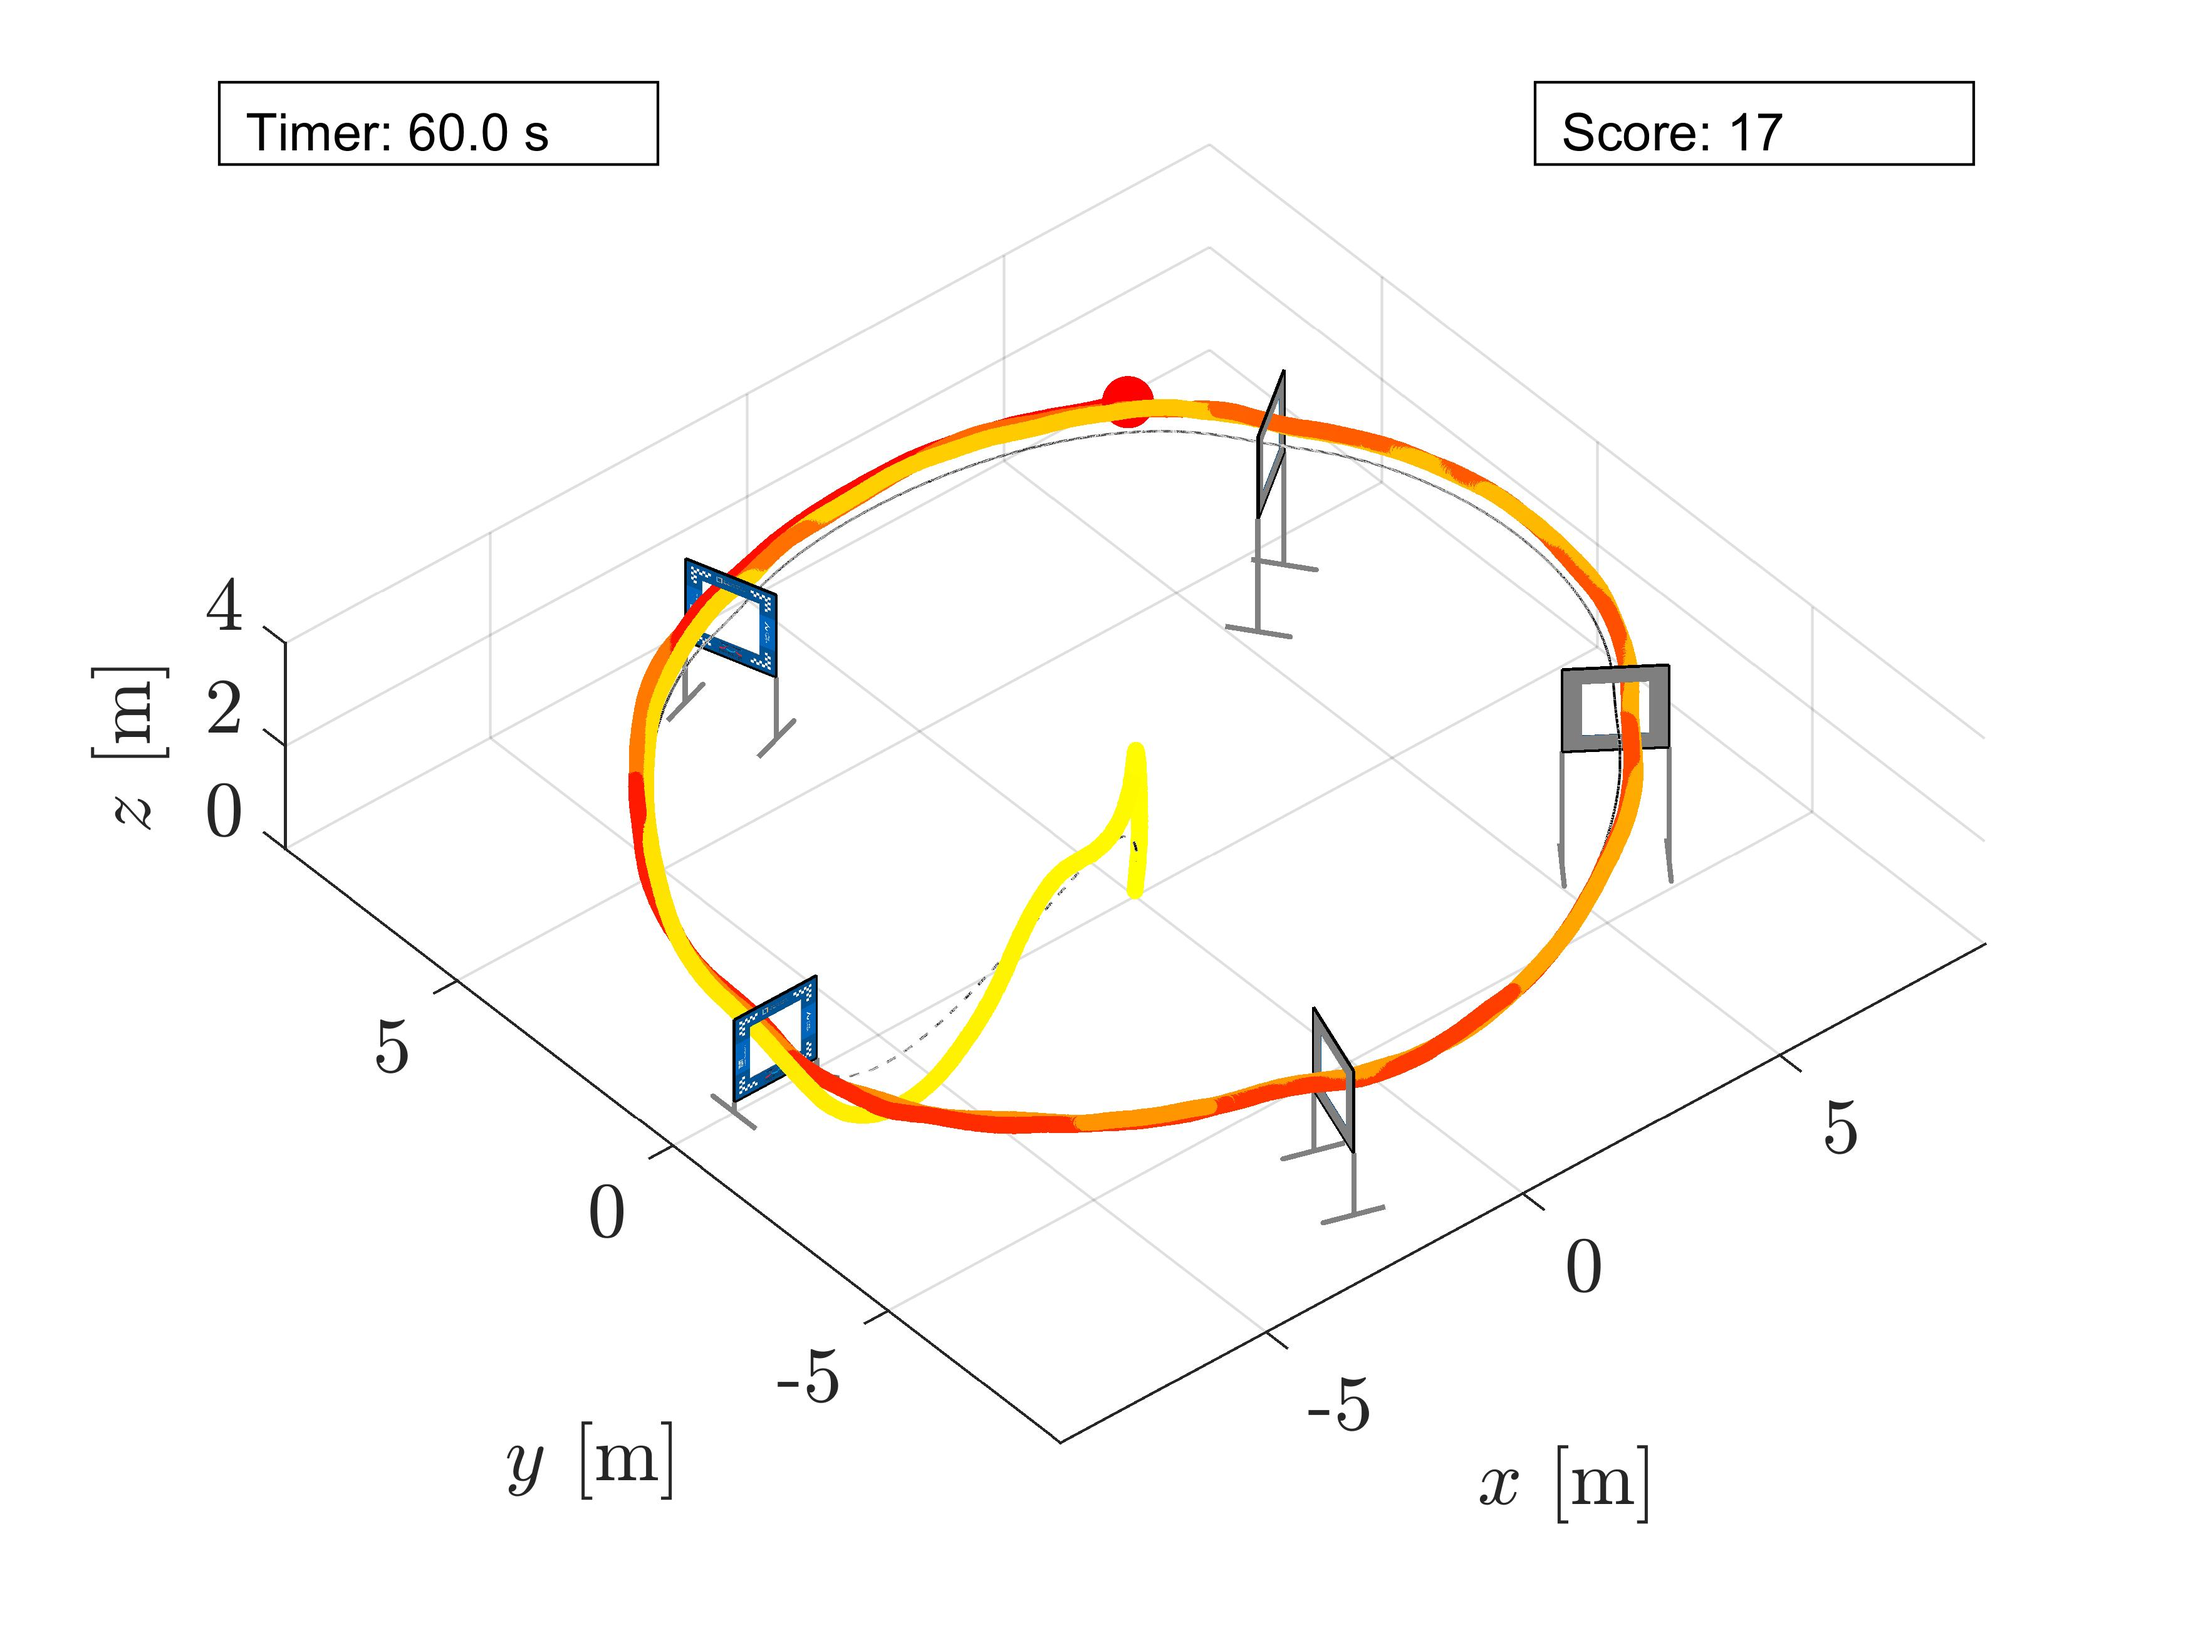
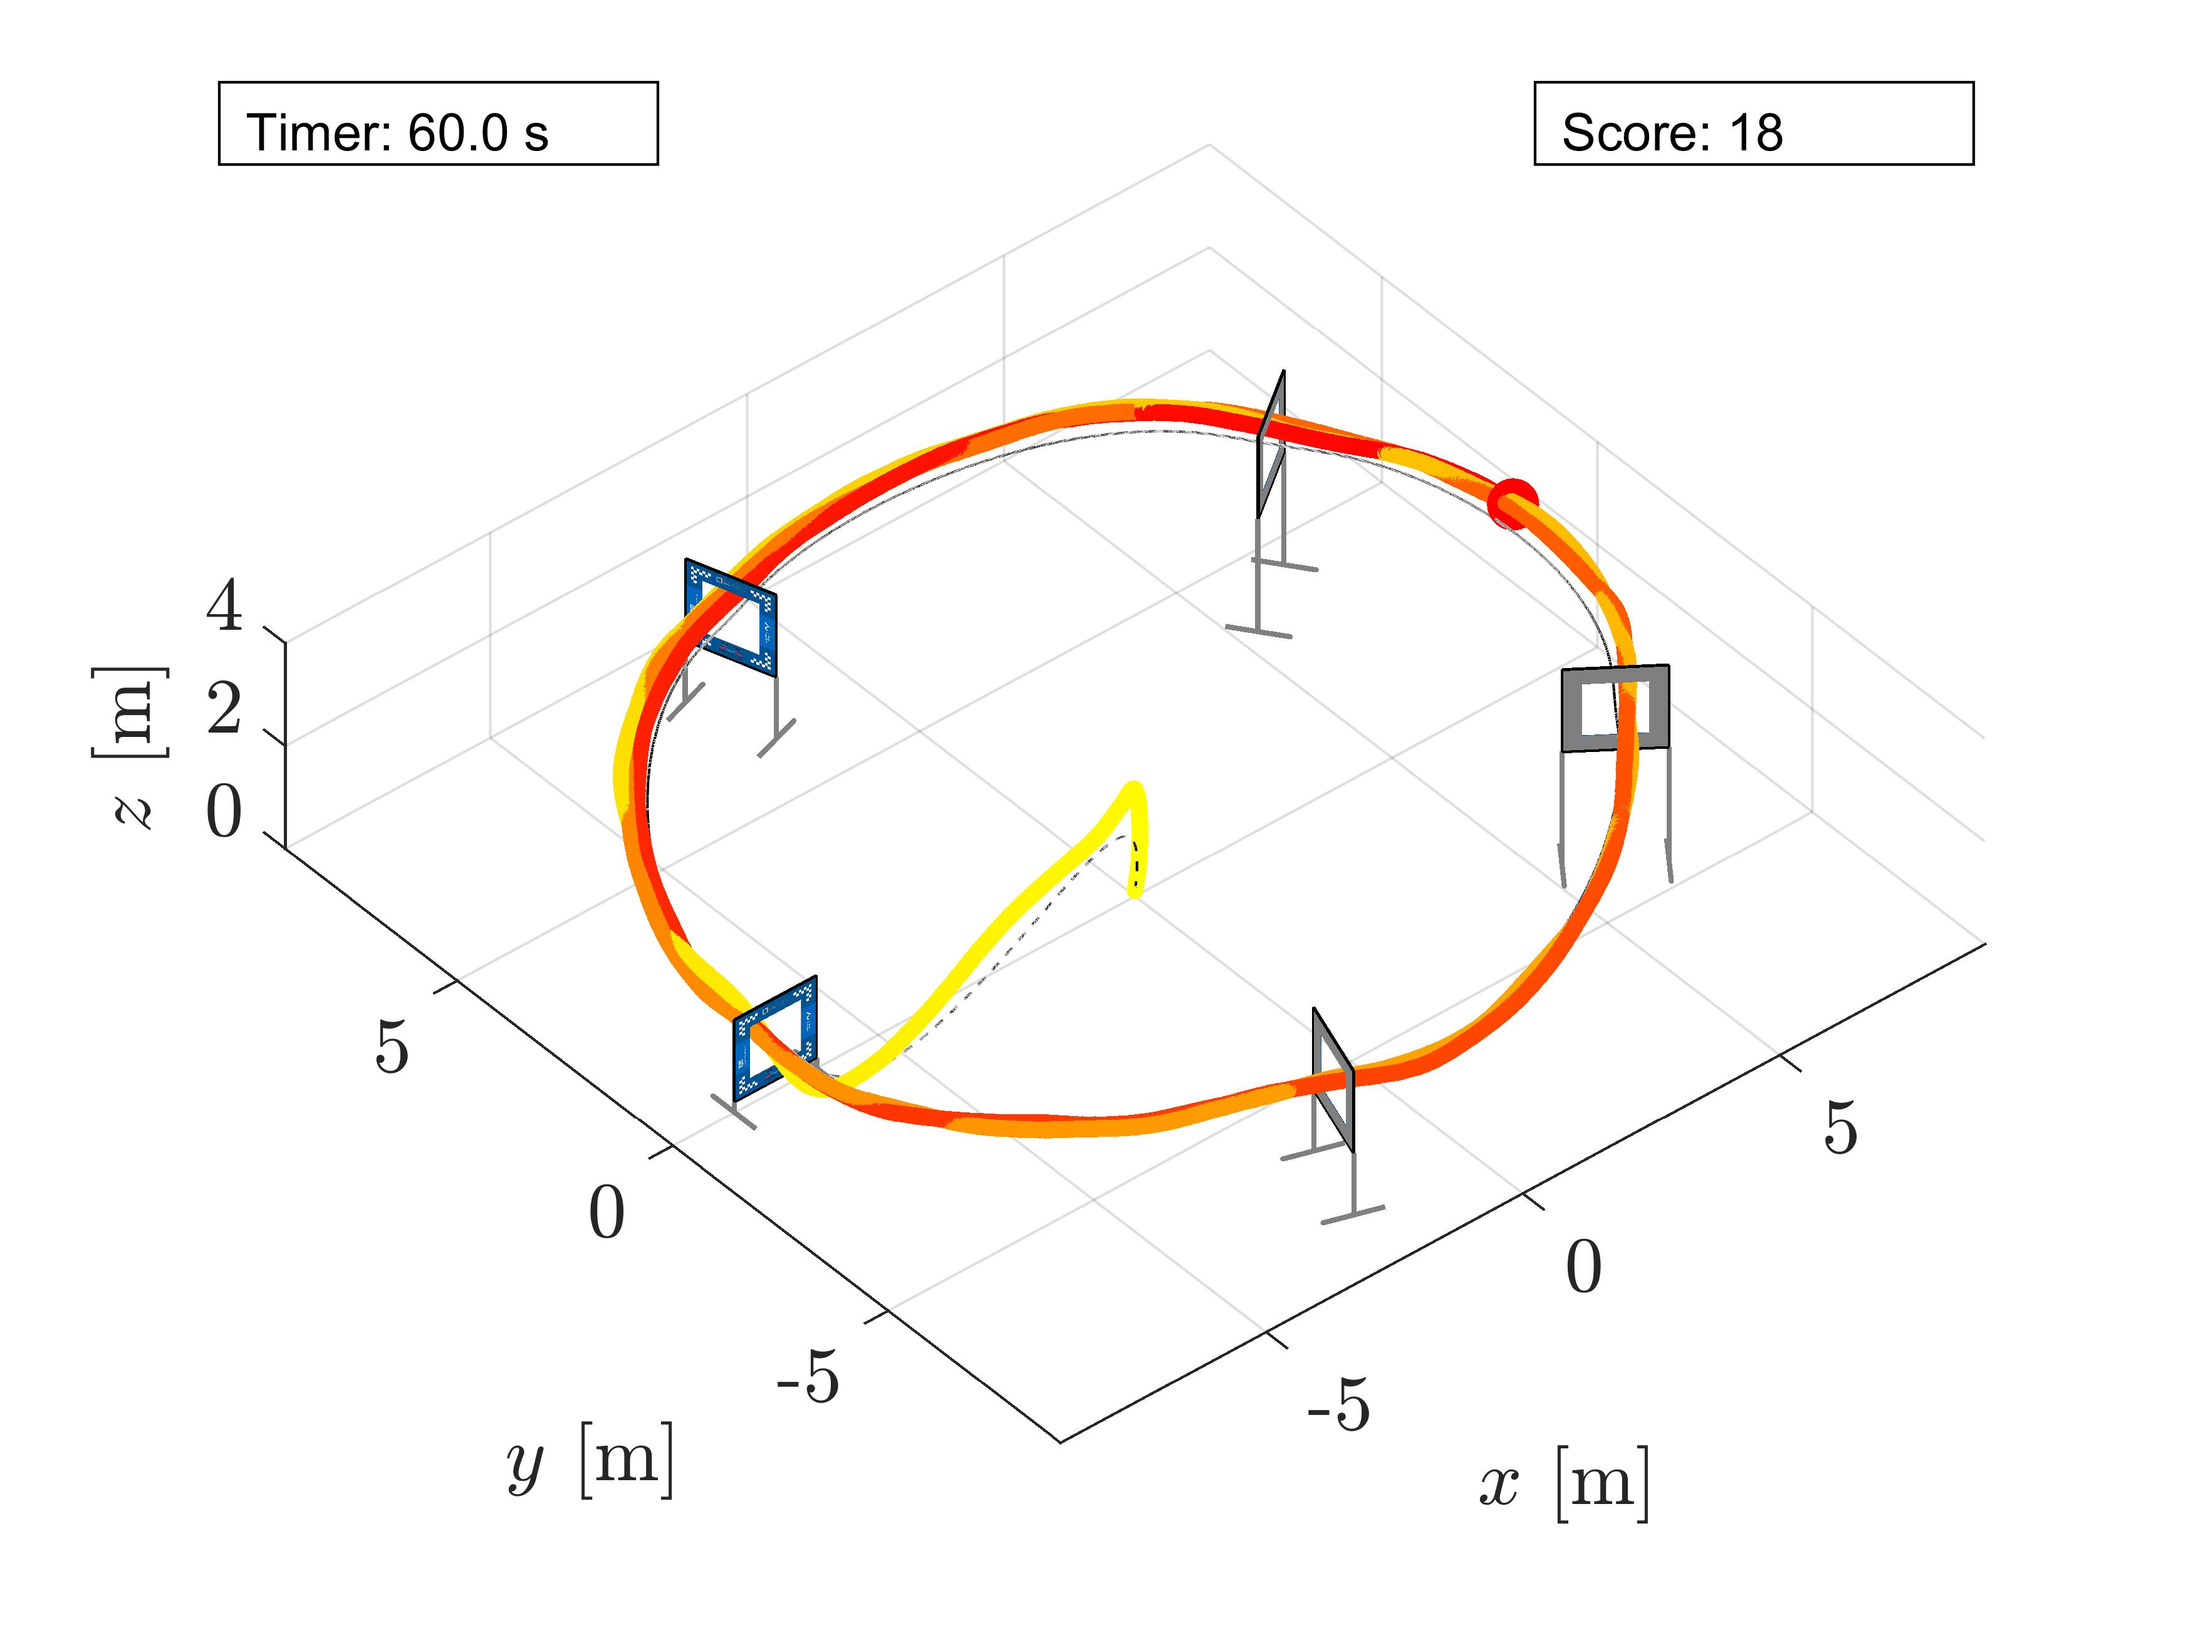
PID 게인 조정

diff --git a/fuzzy_control_surface.m b/fuzzy_control_surface.m
@@ -3,20 +3,19 @@ function [lookup_table_p, lookup_table_d] = fuzzy_control_surface()
     err_memb_func = [
     %-1   -0.9 -0.8  -0.7  -0.6  -0.5 -0.4   -0.3   -0.2   -0.1   0   0.1   0.2    0.3   0.4  0.5  0.6   0.7  0.8   0.9   1.0
     3.0, 2.4, 1.8, 1.2, 0.7, 0.4,  0.2,   0,     0,    0,    0,   0,    0,     0,    0,   0,   0,    0,    0,    0,   0; % NB
-      0, 0.2, 0.6, 1.0, 1.6, 2.4, 3.0,  2.4,   1.0,  0.6,  0.2,   0,    0,     0,    0,   0,   0,    0,    0,    0,   0; % NS
-      0,  0,   0,    0,    0,    0.2,   0.6,   1.0,  1.6,  2.4, 3.0,  2.4,   1.0,   0.6,  0.2, 0,   0,    0,    0,    0,   0; % ZE
-      0,  0,   0,    0,    0,    0,     0,   0,    0,      0.2, 0.6, 1.0, 1.6, 2.4, 3.0,  2.4, 1.0,  0.6,  0.2,    0,   0; % PS
+      0, 0.2, 0.6, 1.0, 1.6, 2.4, 3.0,  2.4,   1.6,  1.0,  0.6,   0.2,    0,     0,    0,   0,   0,    0,    0,    0,   0; % NS
+      0,  0,   0,    0,    0,    0.2,   0.6,   1.0,  1.6,  2.4, 3.0,  2.4,   1.6,   1.0,  0.6, 0.2,   0,    0,    0,    0,   0; % ZE
+      0,  0,   0,    0,    0,    0,     0,   0,    0,      0.2, 0.6, 1.0, 1.6, 2.4, 3.0,  2.4, 1.6,   1.0,  0.6, 0.2,   0; % PS
       0,  0,   0,    0,    0,    0,     0,   0,    0,      0,    0,   0,    0,      0.2,  0.4, 0.7, 1.2, 1.8, 2.2, 2.6, 3.0;% PB   
     ];
-
     d_err_memb_func = [  
     %-1   -0.9 -0.8  -0.7  -0.6  -0.5 -0.4   -0.3   -0.2   -0.1   0   0.1   0.2    0.3   0.4  0.5  0.6   0.7  0.8   0.9   1.0
-    3.0, 2.4, 1.8, 1.2, 0.7, 0.4,  0.2,   0,     0,    0,    0,   0,    0,     0,    0,   0,   0,    0,    0,    0,   0; % NB
-      0, 0.2, 0.6, 1.0, 1.6, 2.4, 3.0,  2.4,   1.0,  0.6,  0.2,   0,    0,     0,    0,   0,   0,    0,    0,    0,   0; % NS
-      0,  0,   0,    0,    0,    0.2,   0.6,   1.0,  1.6,  2.4, 3.0,  2.4,   1.0,   0.6,  0.2, 0,   0,    0,    0,    0,   0; % ZE
-      0,  0,   0,    0,    0,    0,     0,   0,    0,      0.2, 0.6, 1.0, 1.6, 2.4, 3.0,  2.4, 1.0,  0.6,  0.2,    0,   0; % PS
-      0,  0,   0,    0,    0,    0,     0,   0,    0,      0,    0,   0,    0,      0.2,  0.4, 0.7, 1.2, 1.8, 2.2, 2.6, 3.0;% PB   
-    ];
+     1.0, 1.0, 1.0, 0.875, 0.5, 0.1250,  0,   0,     0,    0,    0,   0,    0,     0,    0,   0,   0,    0,    0,    0,   0; % NB
+      0,  0,   0,  0.25,  0.5, 0.7500, 1.0, 0.75,  0.5,  0.25,  0,   0,    0,     0,    0,   0,   0,    0,    0,    0,   0; % NS
+      0,  0,   0,    0,    0,    0,     0,  0.25,  0.5,  0.75, 1.0, 0.75,  0.5,  0.25,  0,   0,   0,    0,    0,    0,   0; % ZE
+      0,  0,   0,    0,    0,    0,     0,   0,    0,     0,    0,  0.25,  0.5,  0.75, 1.0, 0.75, 0.5, 0.25,  0,    0,   0; % PS
+      0,  0,   0,    0,    0,    0,     0,   0,    0,     0,    0,   0,    0,     0,    0,  0.125,0.5, 0.875, 1.0, 1.0, 1.0;% PB   
+    ];   
 
     % NB=1, NS =2, ZE=3, PS=4, PB=5
     Kp_fam = [

diff --git a/MAIN.m b/MAIN.m
@@ -75,33 +75,35 @@ end
 %% Show animation
 
 score = environment(gates, pose, pose_d);
-% figure(1)
-% plot(t,error_pos(:,1),'r')
-% hold on
-% plot(t,error_pos(:,2),'b')
-% plot(t,error_pos(:,3),'k')
-% hold off
-% legend('x error','y error','z error')
-% 
-% figure(2)
-% tiledlayout(3,1)
-% nexttile
-% plot(t,error_att(:,1),'r')
-% legend('Roll error')
-% nexttile
-% plot(t,error_att(:,2),'b')
-% legend('Pitch error')
-% nexttile
-% plot(t,error_att(:,3),'k')
-% legend('Yaw error')
-% 
-% figure(3)
-% plot(t,saved_error(1,:),'r')
-% hold on
-% plot(t,saved_error(2,:),'b')
-% plot(t,saved_error(3,:),'k')
-% hold off
-% legend('yaw * x error',' yaw * y error','yaw * z error')
+
+%% Plot
+figure(2)
+plot(t,error_pos(:,1),'r')
+hold on
+plot(t,error_pos(:,2),'b')
+plot(t,error_pos(:,3),'k')
+hold off
+legend('x error','y error','z error')
+
+figure(3)
+tiledlayout(3,1)
+nexttile
+plot(t,error_att(:,1),'r')
+legend('Roll error')
+nexttile
+plot(t,error_att(:,2),'b')
+legend('Pitch error')
+nexttile
+plot(t,error_att(:,3),'k')
+legend('Yaw error')
+
+figure(4)
+plot(t,saved_error(1,:),'r')
+hold on
+plot(t,saved_error(2,:),'b')
+plot(t,saved_error(3,:),'k')
+hold off
+legend('yaw * x error',' yaw * y error','yaw * z error')
 %% Show results
 
 % disp('**********');

diff --git a/trajectory.m b/trajectory.m
@@ -31,7 +31,7 @@ function [pose_d, velocity_d] = trajectory(gates)
 
 global initial_state dt;
 
-desired_speed = 2.0; % desired speed over the trajectory [in m/s]
+desired_speed = 2.1; % desired speed over the trajectory [in m/s]
 
 %% Calculate waypoints
 

diff --git a/controller.m b/controller.m
@@ -37,14 +37,14 @@ end
 
 %% Initialize gains
 
-Kp_x = 1;
-Kd_x = 2;
+Kp_x = 20;
+Kd_x = 40;
 
-Kp_y = 1;
-Kd_y = 2;
+Kp_y = 20;
+Kd_y = 40;
 
-Kp_z = 50;
-Kd_z = 10;
+Kp_z = 20;%50;
+Kd_z = 5;
 
 %% Actual state
 
